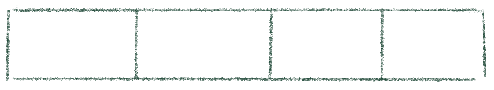
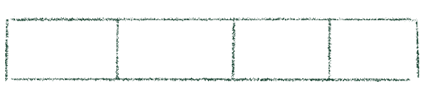
fixing gate

diff --git a/css/styles.css b/css/styles.css
@@ -21,13 +21,18 @@ html {
 }
 
 body {
-  max-width: 375px;
+  width: 375px;
   margin: auto;
   background-color: var(--background-color);
   box-shadow: 0 0 50px rgb(0 0 0 / 20%);
   color: var(--main-color);
   text-align: center;
-  padding: 0 25px;
+}
+
+header,
+main,
+footer {
+padding: 0 25px;
 }
 
 * {
@@ -88,13 +93,14 @@ header h1 {
 nav {
   display: flex;
   align-items: center;
-  padding: 10px;
+  padding: 7px;
   justify-content: space-around;
 }
 
 .gate {
   background-image: url(../img/grille-nav-vert.webp);
-  background-size: cover;
+  background-size: contain;
+  background-repeat: no-repeat;
 }
 
 nav a {
